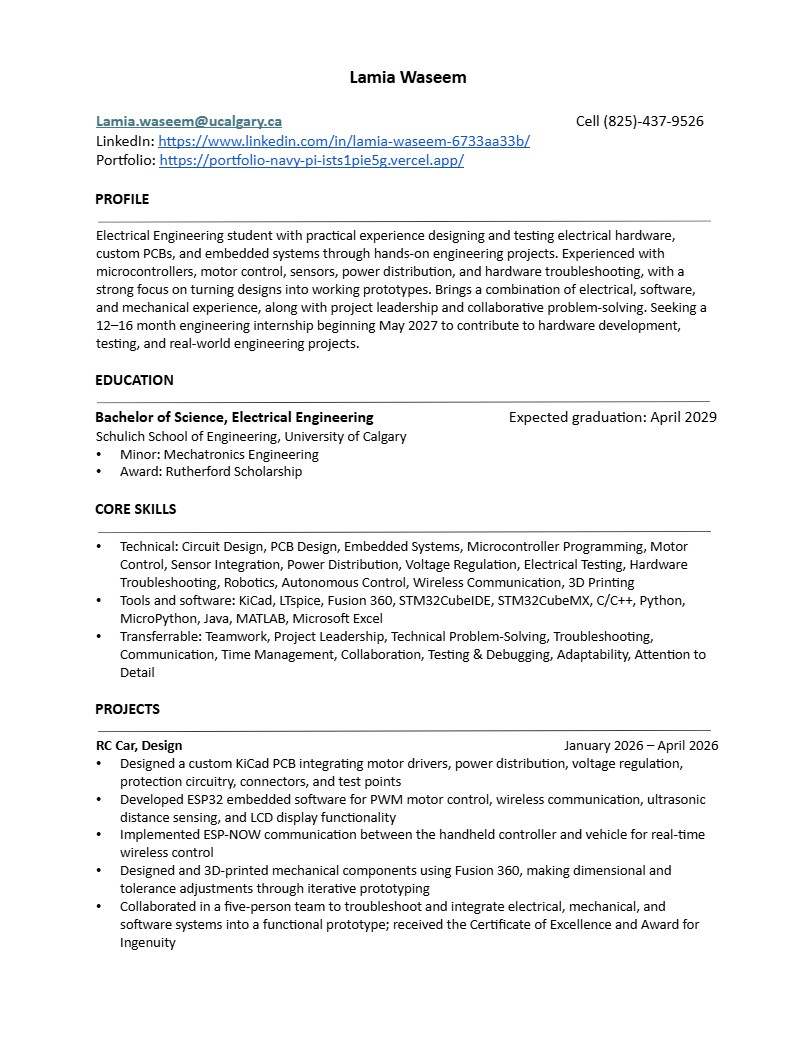
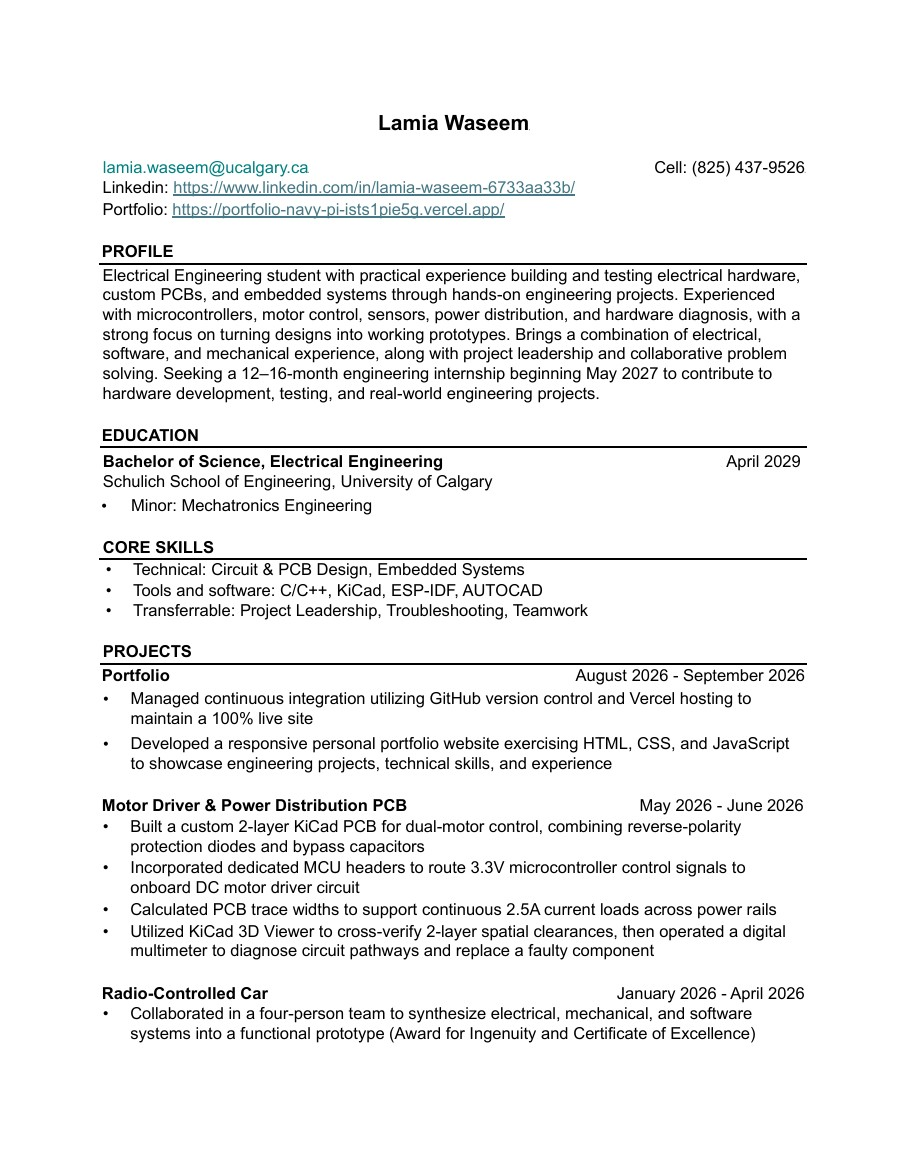
mobile

Changed region(s): [[0.0932, 0.0611, 0.9006, 0.916], [0.7143, 0.0916, 0.9006, 0.1527]]

diff --git a/index.html b/index.html
@@ -184,19 +184,41 @@
         /* Responsive safety parameters collapsing column down on mobile */
         @media(max-width: 1024px) {
             .home-split-container {
-                grid-template-columns: 1fr;
-                height: auto;
-                margin-top: 0;
+                grid-template-columns: 1fr !important;
+                height: auto !important; 
+                margin-top: 0 !important;
             }
             .home-left-hero {
-                height: 450px;
-                padding: 40px;
+                height: 400px !important;
+                width: 100% !important;
+                padding: 40px !important;
             }
-            .hero-main-title {
-                font-size: 3.5rem !important;
+            .home-center-header {
+                position: relative !important;
+                bottom: auto !important;
+                left: auto !important;
+                transform: none !important;
+                margin: 40px auto !important;
+                color: #111111 !important; 
+                text-shadow: none !important;
+                width: 85% !important;
+            }
+            .home-center-header .hero-main-title {
+                color: #111111 !important;
+                font-size: 3rem !important; 
+            }
+            .home-center-header .hero-sub-tags {
+                color: #555555 !important;
+                font-size: 1rem !important;
             }
             .home-right-profile {
-                padding: 60px 40px;
+                width: 100% !important;
+                height: auto !important; 
+                padding: 60px 40px !important; 
+                align-items: center !important;
+            }
+            .profile-inner-content {
+                max-width: 100% !important;
             }
         }
 
@@ -623,13 +645,12 @@
 
     <!-- Resume Page Block -->
     <section id="resume" class="page">
-        <p class="scroll-hint-text">Scroll to View More Pages &rarr;</p>
+        <!--<p class="scroll-hint-text">Scroll to View More Pages &rarr;</p> ////uncomment when more than 2 page resume and add image below -->
 
         <!-- Full Page Resume Image Container -->
         <div class="resume-scroll-row">
             <img src="images/resume1.jpg" alt="My Resume Page 1" class="resume-picture">
             <img src="images/resume2.jpg" alt="My Resume Page 2" class="resume-picture">
-            <img src="images/resume3.jpg" alt="My Resume Page 3" class="resume-picture">
         </div>
     </section>
 
